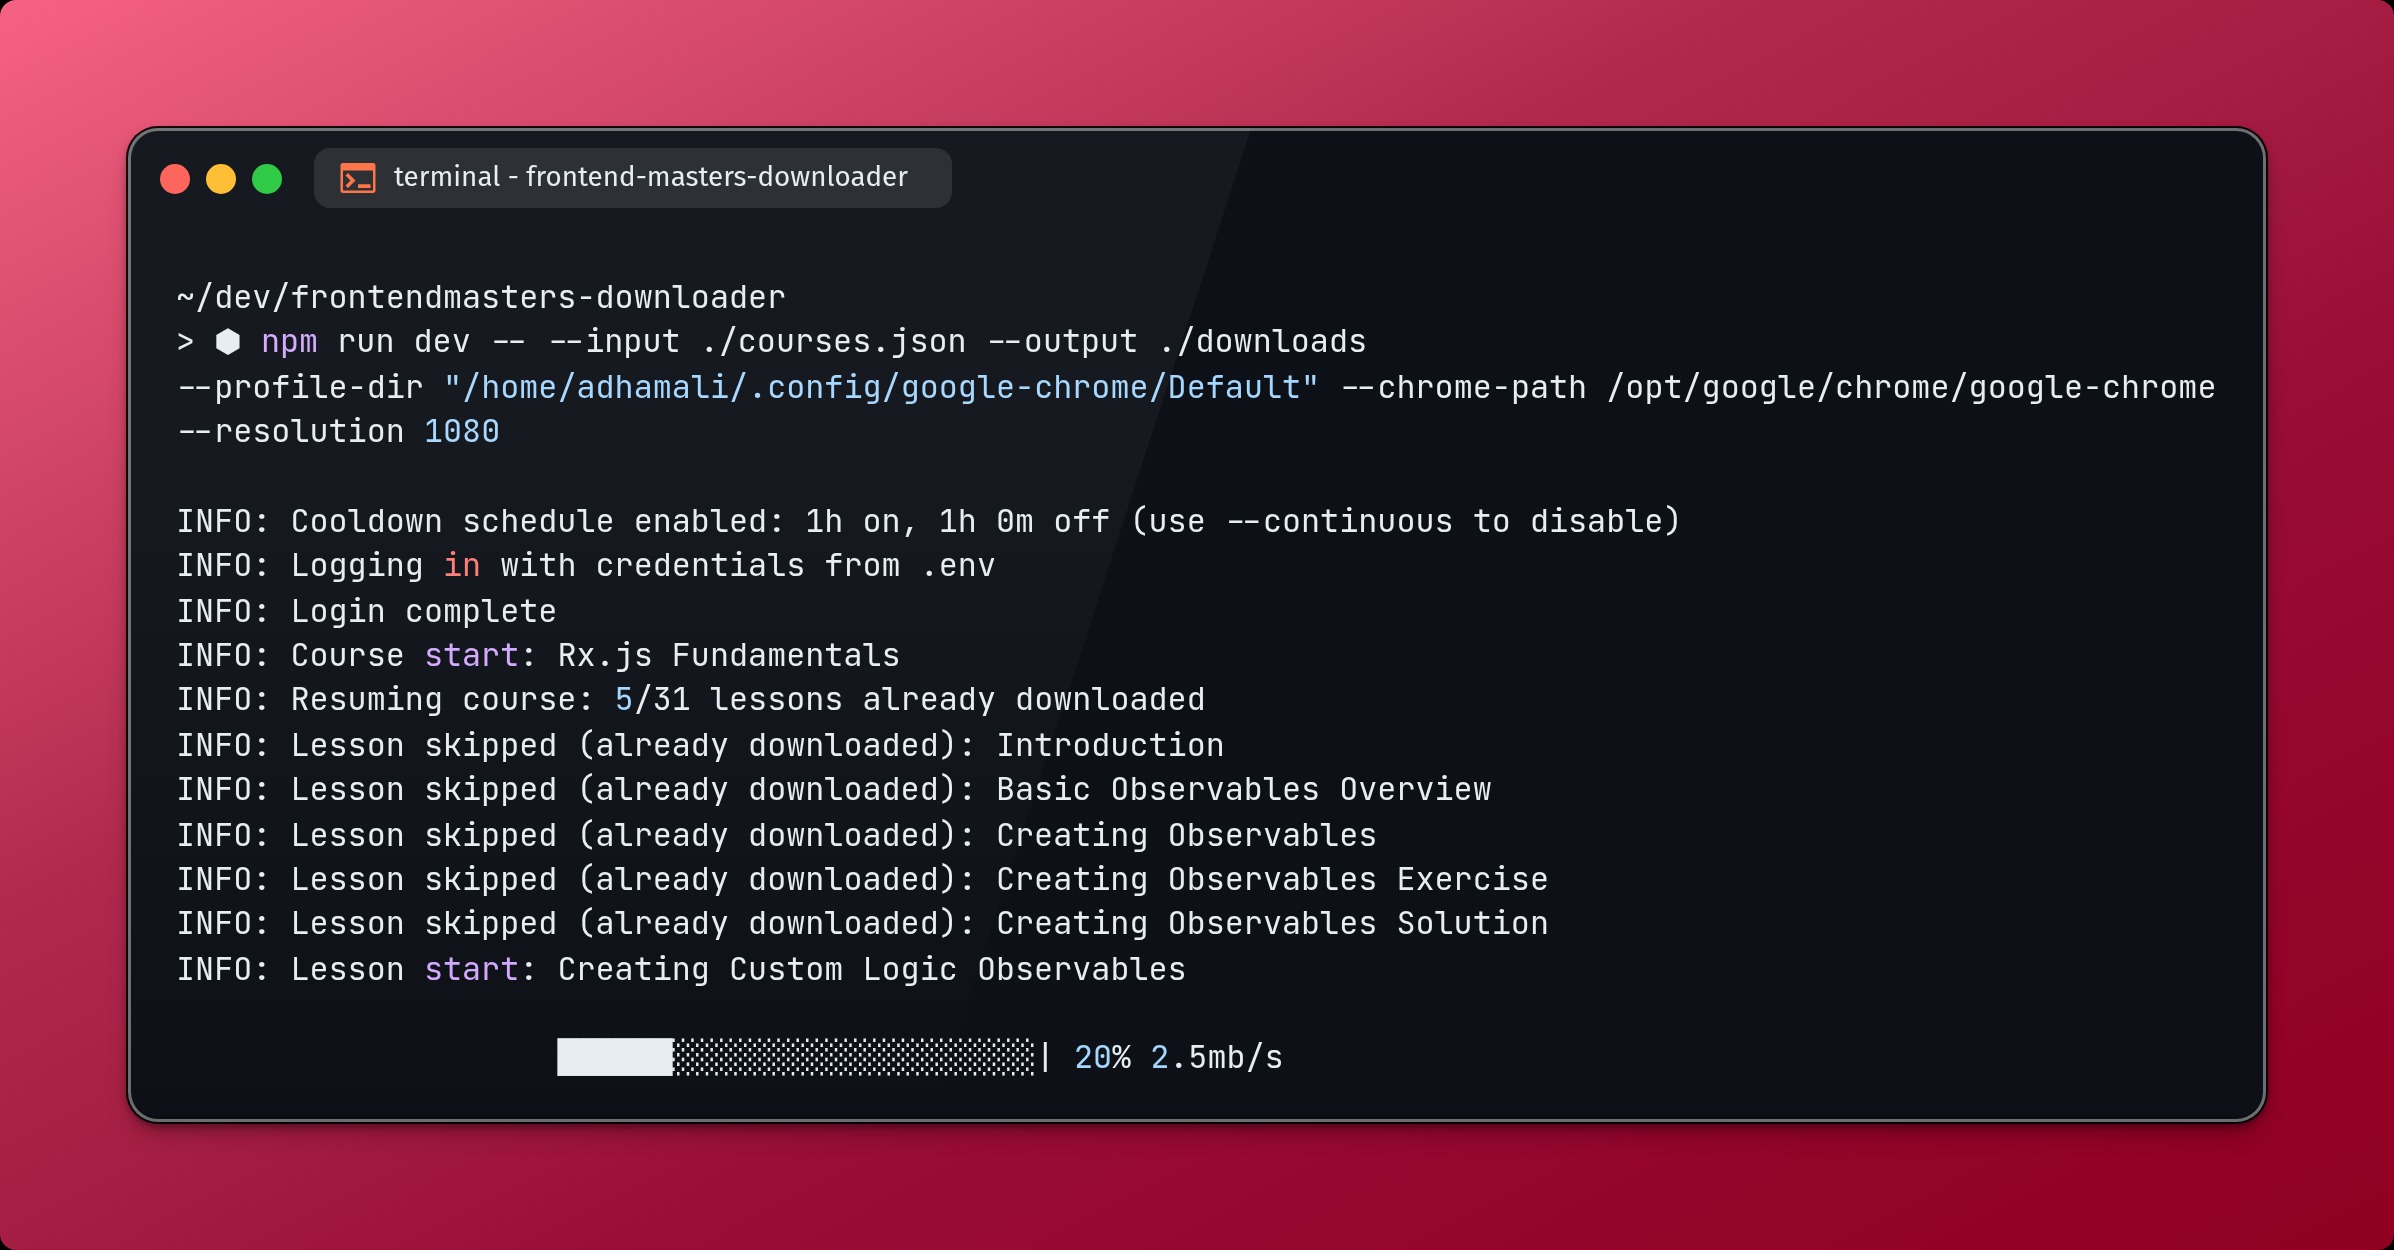
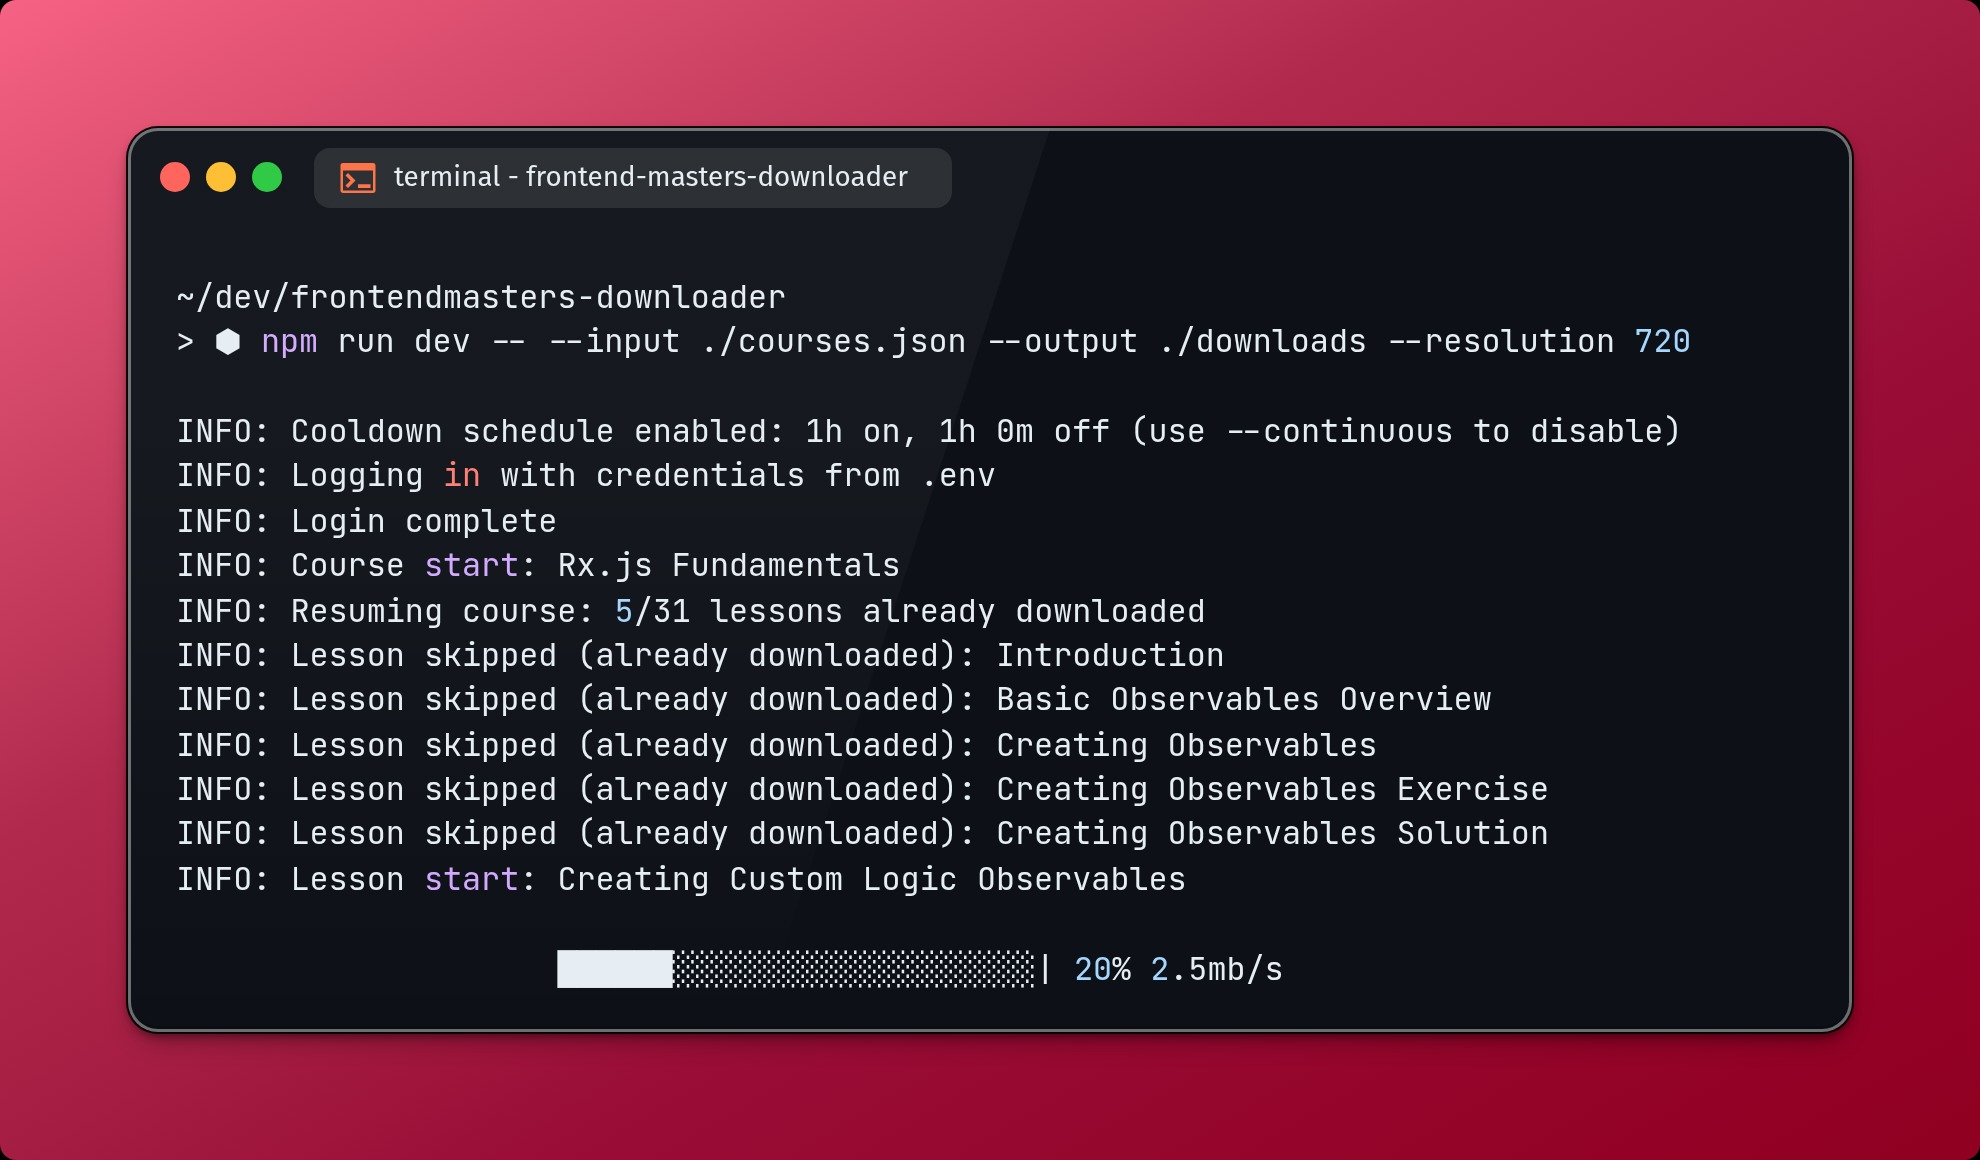
🧑💻 Simplify download flow

Changed region(s): [[0.0308, 0.0931, 0.9551, 0.931], [0.9859, 0.9931, 1.0, 1.0]]

diff --git a/src/application/DownloadCourses.ts b/src/application/DownloadCourses.ts
@@ -8,7 +8,10 @@ import {
   RunWindowExpiredError,
   SegmentDownloader,
 } from "../modules/segment/SegmentDownloader.js";
-import { SegmentStitcher, StitchMetadata } from "../modules/segment/SegmentStitcher.js";
+import {
+  SegmentStitcher,
+  StitchMetadata,
+} from "../modules/segment/SegmentStitcher.js";
 import { TempMediaPaths } from "../modules/media/TempMediaPaths.js";
 import { CourseInput, Lesson } from "../domain/entities/Course.js";
 import {
@@ -35,7 +38,6 @@ interface DownloadCoursesConfig {
   segmentStitcher: SegmentStitcher;
   outputDir: string;
   concurrency: number;
-  dryRun: boolean;
   playlistTimeoutMs: number;
   lessonTimeoutMs: number;
 }
@@ -45,7 +47,7 @@ export class DownloadCourses {
 
   async run(
     inputs: CourseInput[],
-    shouldContinue: ShouldContinue = () => true
+    shouldContinue: ShouldContinue = () => true,
   ): Promise<DownloadRunResult> {
     await mkdir(this.config.outputDir, { recursive: true });
 
@@ -64,7 +66,7 @@ export class DownloadCourses {
         }
 
         logger.error(
-          `Error processing course "${input.title}": ${err instanceof Error ? err.message : String(err)}`
+          `Error processing course "${input.title}": ${err instanceof Error ? err.message : String(err)}`,
         );
       }
     }
@@ -74,19 +76,26 @@ export class DownloadCourses {
 
   private async processCourse(
     courseInput: CourseInput,
-    shouldContinue: ShouldContinue
+    shouldContinue: ShouldContinue,
   ): Promise<boolean> {
     logger.info(`Course start: ${courseInput.title}`);
 
     const page = await this.config.browser.newPage();
-    const course = await this.config.scraper.scrapeCourse(page, courseInput.url);
+    const course = await this.config.scraper.scrapeCourse(
+      page,
+      courseInput.url,
+    );
     await page.close();
 
     const courseSlug = toFileSlug(course.title || courseInput.title);
     const courseDir = path.join(this.config.outputDir, courseSlug);
     await mkdir(courseDir, { recursive: true });
 
-    await writeFile(path.join(courseDir, "course.json"), JSON.stringify(course, null, 2), "utf-8");
+    await writeFile(
+      path.join(courseDir, "course.json"),
+      JSON.stringify(course, null, 2),
+      "utf-8",
+    );
 
     const lessons = course.chapters.flatMap((chapter) => chapter.lessons);
     if (lessons.length === 0) {
@@ -96,13 +105,15 @@ export class DownloadCourses {
 
     const completedLessons = await Promise.all(
       lessons.map((lesson) =>
-        isCompleteLessonFile(lessonOutputPath(courseDir, lesson.index, lesson.title))
-      )
+        isCompleteLessonFile(
+          lessonOutputPath(courseDir, lesson.index, lesson.title),
+        ),
+      ),
     );
     const downloadedCount = completedLessons.filter(Boolean).length;
     if (downloadedCount > 0) {
       logger.info(
-        `Resuming course: ${downloadedCount}/${lessons.length} lessons already downloaded`
+        `Resuming course: ${downloadedCount}/${lessons.length} lessons already downloaded`,
       );
     }
 
@@ -112,7 +123,13 @@ export class DownloadCourses {
         return true;
       }
 
-      await this.processLesson(courseSlug, course.title, lesson, courseDir, shouldContinue);
+      await this.processLesson(
+        courseSlug,
+        course.title,
+        lesson,
+        courseDir,
+        shouldContinue,
+      );
     }
 
     return false;
@@ -123,18 +140,10 @@ export class DownloadCourses {
     courseTitle: string,
     lesson: Lesson,
     courseDir: string,
-    shouldContinue: ShouldContinue
+    shouldContinue: ShouldContinue,
   ): Promise<void> {
     const lessonSlug = toFileSlug(`${lesson.index + 1}-${lesson.title}`);
     const outputPath = lessonOutputPath(courseDir, lesson.index, lesson.title);
-
-    if (this.config.dryRun) {
-      const alreadyDownloaded = await isCompleteLessonFile(outputPath);
-      logger.info(
-        `[dry-run] ${alreadyDownloaded ? "skip" : "download"} ${lesson.title} -> ${outputPath}`
-      );
-      return;
-    }
 
     if (await isCompleteLessonFile(outputPath)) {
       logger.info(`Lesson skipped (already downloaded): ${lesson.title}`);
@@ -151,16 +160,20 @@ export class DownloadCourses {
     const page = await this.config.browser.newPage();
 
     try {
-      const master = await this.config.sniffer.captureMasterPlaylist(page, lesson.url, {
-        navigationTimeoutMs: this.config.lessonTimeoutMs,
-        playlistTimeoutMs: this.config.playlistTimeoutMs,
-        cookiesPath: tempPaths.cookiesPath(),
-      });
+      const master = await this.config.sniffer.captureMasterPlaylist(
+        page,
+        lesson.url,
+        {
+          navigationTimeoutMs: this.config.lessonTimeoutMs,
+          playlistTimeoutMs: this.config.playlistTimeoutMs,
+          cookiesPath: tempPaths.cookiesPath(),
+        },
+      );
 
       const playlist = await this.config.resolver.resolve(
         master.body,
         master.url,
-        master.cookiesPath
+        master.cookiesPath,
       );
 
       const mediaSlug = `${courseSlug}/${lessonSlug}`;
@@ -185,7 +198,7 @@ export class DownloadCourses {
         orderedSegmentPaths,
         outputPath,
         true,
-        metadata
+        metadata,
       );
 
       logger.info(`Lesson complete: ${lesson.title}`);
@@ -196,7 +209,7 @@ export class DownloadCourses {
       }
 
       logger.error(
-        `Error processing lesson "${lesson.title}": ${err instanceof Error ? err.message : String(err)}`
+        `Error processing lesson "${lesson.title}": ${err instanceof Error ? err.message : String(err)}`,
       );
     } finally {
       await page.close().catch(() => undefined);

diff --git a/src/cli/args.ts b/src/cli/args.ts
@@ -11,10 +11,8 @@ import {
 export interface CliArgs {
   inputPath: string;
   outputDir: string;
-  chromePath?: string;
   concurrency: number;
   headless: boolean;
-  dryRun: boolean;
   playlistTimeoutMs: number;
   lessonTimeoutMs: number;
   resolution?: VideoResolution;
@@ -29,7 +27,7 @@ const parseResolution = (value: unknown): VideoResolution | undefined => {
   const height = Number(value);
   if (!Number.isInteger(height) || !isVideoResolution(height)) {
     throw new Error(
-      `Invalid --resolution "${String(value)}". Allowed values: ${VIDEO_RESOLUTIONS.join(", ")}`
+      `Invalid --resolution "${String(value)}". Allowed values: ${VIDEO_RESOLUTIONS.join(", ")}`,
     );
   }
 
@@ -54,8 +52,12 @@ export function parseArgs(argv: string[]): CliArgs {
   const inputPath = String(args.input || "./courses.json");
   const outputDir = String(args.output || "./downloads");
 
-  const runDurationMs = Number(args["run-duration-ms"] || DEFAULT_RUN_DURATION_MS);
-  const pauseDurationMs = Number(args["pause-duration-ms"] || DEFAULT_PAUSE_DURATION_MS);
+  const runDurationMs = Number(
+    args["run-duration-ms"] || DEFAULT_RUN_DURATION_MS,
+  );
+  const pauseDurationMs = Number(
+    args["pause-duration-ms"] || DEFAULT_PAUSE_DURATION_MS,
+  );
 
   if (!Number.isFinite(runDurationMs) || runDurationMs <= 0) {
     throw new Error("--run-duration-ms must be a positive number");
@@ -67,10 +69,8 @@ export function parseArgs(argv: string[]): CliArgs {
   return {
     inputPath,
     outputDir,
-    chromePath: args["chrome-path"] ? String(args["chrome-path"]) : undefined,
     concurrency: Number(args.concurrency || 2),
     headless: args.headless === true,
-    dryRun: args["dry-run"] === true,
     playlistTimeoutMs: Number(args["playlist-timeout-ms"] || 15000),
     lessonTimeoutMs: Number(args["lesson-timeout-ms"] || 30000),
     resolution: parseResolution(args.resolution),

diff --git a/src/modules/browser/CourseBrowser.ts b/src/modules/browser/CourseBrowser.ts
@@ -1,12 +1,10 @@
 import { Browser, BrowserContext, chromium, Page } from "playwright";
-import process from "node:process";
 import { getFrontendMastersCredentials } from "../../config/credentials.js";
 import { delay } from "../../utils/index.js";
 import { logger } from "../../utils/logger.js";
 
 export interface CourseBrowserConfig {
   headless: boolean;
-  executablePath?: string;
 }
 
 const LOGIN_URL = "https://frontendmasters.com/login/";
@@ -26,7 +24,6 @@ export class CourseBrowser {
 
     this.browser = await chromium.launch({
       headless: this.config.headless,
-      executablePath: this.config.executablePath || process.env.CHROME_PATH,
     });
     this.context = await this.browser.newContext();
 

diff --git a/src/index.ts b/src/index.ts
@@ -19,7 +19,6 @@ const inputs = await loadCourseInputs(args.inputPath);
 
 const browser = new CourseBrowser({
   headless: args.headless,
-  executablePath: args.chromePath,
 });
 
 const downloader = new DownloadCourses({
@@ -31,7 +30,6 @@ const downloader = new DownloadCourses({
   segmentStitcher: new SegmentStitcher(),
   outputDir: args.outputDir,
   concurrency: args.concurrency,
-  dryRun: args.dryRun,
   lessonTimeoutMs: args.lessonTimeoutMs,
   playlistTimeoutMs: args.playlistTimeoutMs,
 });

diff --git a/README.md b/README.md
@@ -26,14 +26,21 @@ Many open-source attempts to download Frontend Masters content trigger warnings 
 
 ## Requirements
 
-- Node.js >= 20
 - A valid Frontend Masters account
+- Node.js >= 20
+- Playwright 1.46.0
 - FFmpeg installed locally (or use Docker)
 
 ## Install (local)
 
 ```bash
 npm install
+```
+
+If you do not have Chrome or Chromium installed locally, install Playwright's bundled Chromium:
+
+```bash
+npx playwright install chromium
 ```
 
 ## Configure
@@ -74,10 +81,8 @@ npm start -- --input ./courses.json --output ./downloads
 ```
 --input <path>              Input JSON file (default: ./courses.json)
 --output <dir>              Output directory (default: ./downloads)
---chrome-path <path>        Custom Chrome executable path
 --concurrency <number>      Parallel lesson downloads (default: 2)
 --headless                  Run browser headless
---dry-run                   Print what would be downloaded
 --playlist-timeout-ms <ms>  Timeout waiting for HLS playlist (default: 15000)
 --lesson-timeout-ms <ms>    Page navigation timeout (default: 30000)
 --resolution <height>       1080 | 720 | 480 | 360
@@ -101,6 +106,8 @@ npm run dev -- --continuous
 ```
 
 ## Docker
+
+The Docker image installs Playwright's bundled Chromium during build.
 
 Build the image:
 
